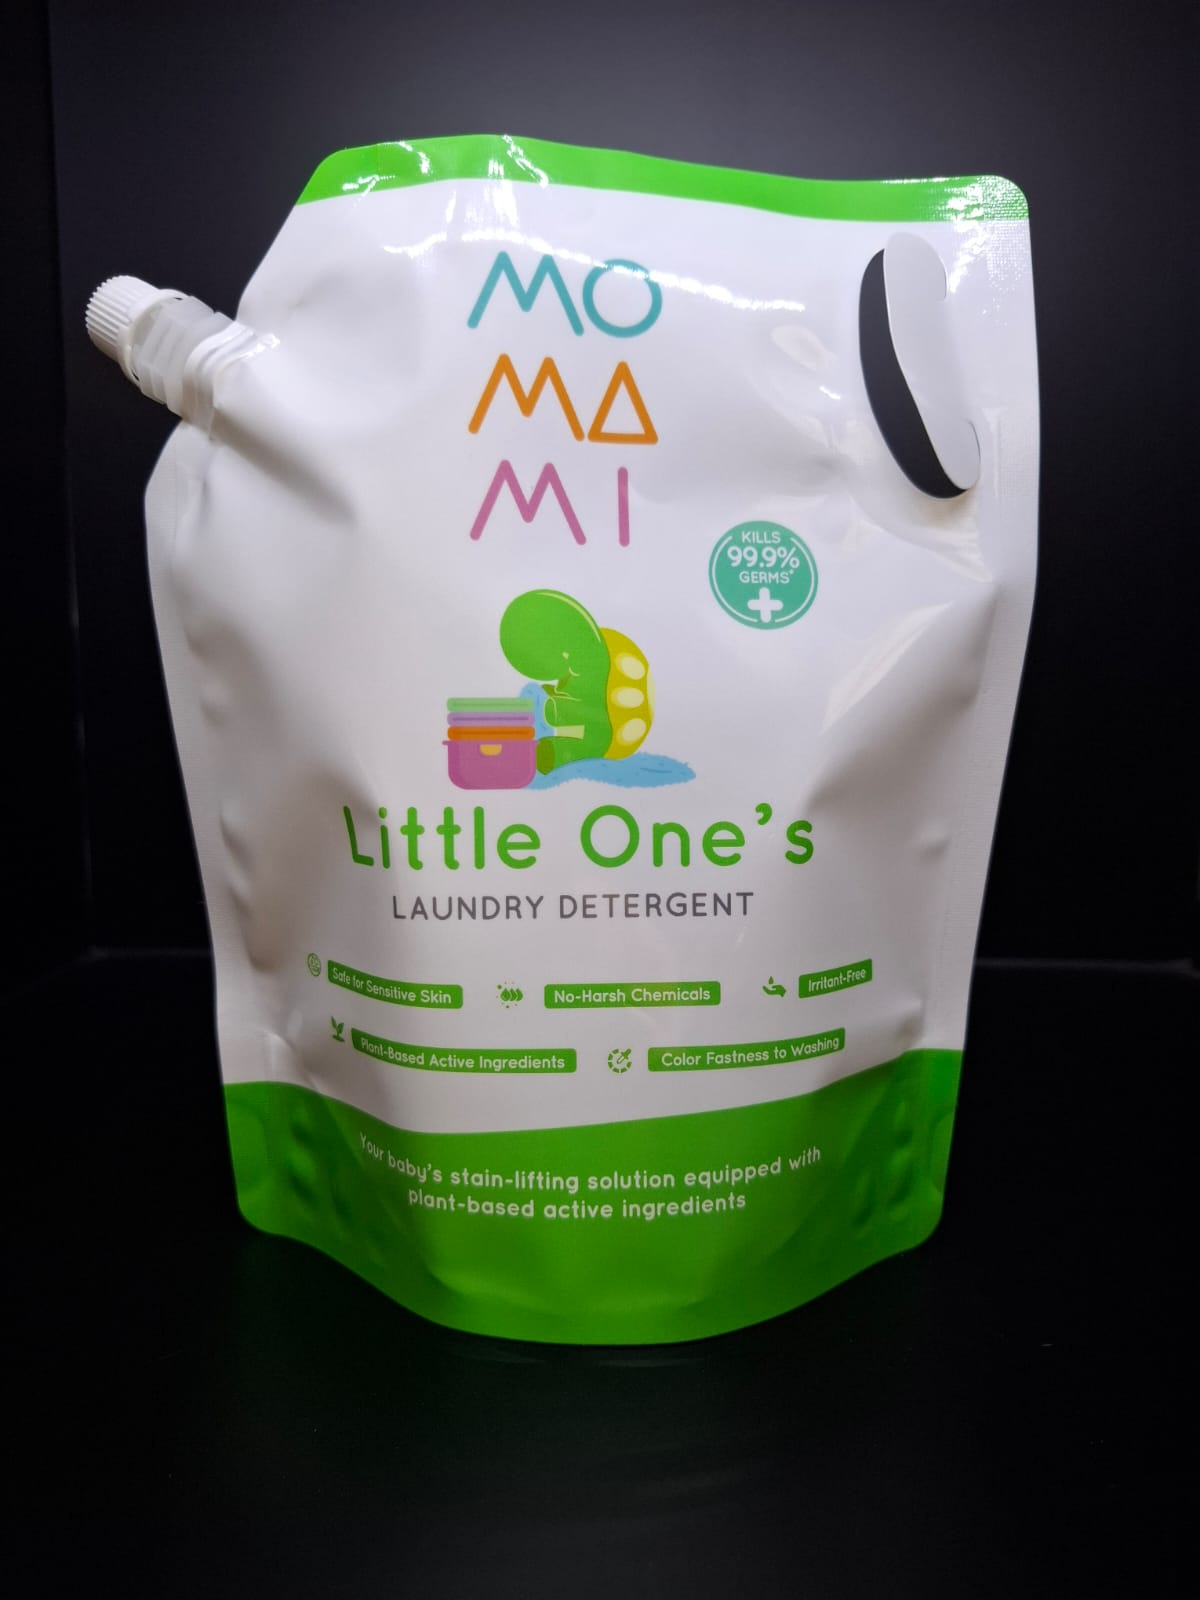
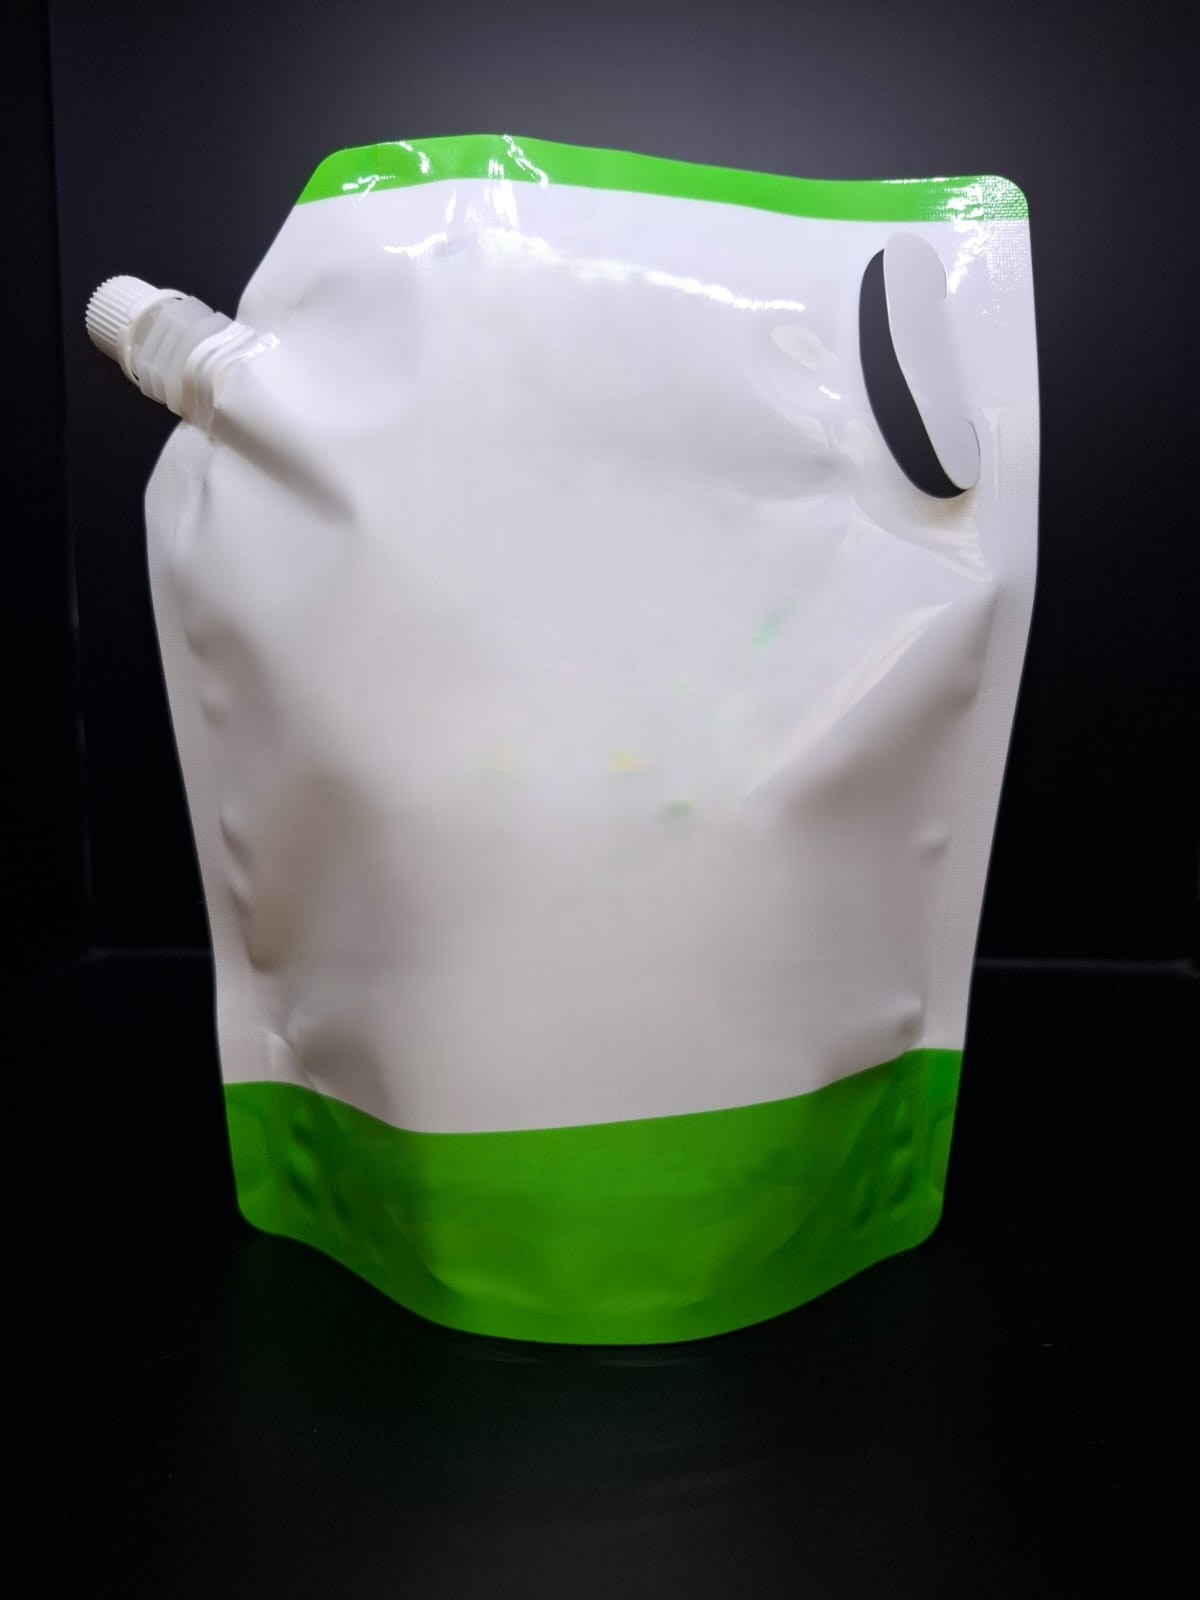
added pictures, changed whatsapp number positioning

diff --git a/data/products.ts b/data/products.ts
@@ -12,10 +12,10 @@ export const products: Product[] = [
     id: "1",
     name: "Spout Side Bag Small",
     description: "Small spout bag perfect for liquids and gels with spout nozzle at the side.",
-    images: [`${import.meta.env.BASE_URL}spout_side_small.jpeg`],
+    images: [`${import.meta.env.BASE_URL}spout_side_small.jpeg`, `${import.meta.env.BASE_URL}S-front.jpeg`, `${import.meta.env.BASE_URL}S-back.jpeg`,  `${import.meta.env.BASE_URL}S-front_1.jpeg`,  `${import.meta.env.BASE_URL}S-back_1.jpeg`, `${import.meta.env.BASE_URL}S-front_2.jpeg`, `${import.meta.env.BASE_URL}S-back_2.jpeg`],
     specs: [
       { label: "Length", value: "100 mm" },
-      { label: "Width", value: "120 mm" },
+      { label: "Width", value: "160 mm" },
       { label: "Thickness", value: "130 mic" },
       { label: "Nozzle Diameter", value: "10mm" }
     ]
@@ -37,19 +37,19 @@ export const products: Product[] = [
     name: "Spout Side Bag Medium",
     category: "Spout Bag",
     description: "Medium spout bag perfect for liquids and gels with spout nozzle at the side.",
-    images: [``],
+    images: [`${import.meta.env.BASE_URL}L-front.jpeg`, `${import.meta.env.BASE_URL}L-back.jpeg`, `${import.meta.env.BASE_URL}L-front_1.jpeg`, `${import.meta.env.BASE_URL}L-back_1.jpeg`],
     specs: [
-      { label: "Length", value: "200 mm" },
+      { label: "Length", value: "140 mm" },
       { label: "Width", value: "230 mm" },
       { label: "Thickness", value: "130 mic" },
-      { label: "Nozzle Diameter", value: "26mm" }
+      { label: "Nozzle Diameter", value: "10mm" }
     ]
   },
   {
     id: "4",
     name: "Spout Side Bag Medium with Handle",
     description: "Medium spout bag perfect for liquids and gels with spout nozzle at the side and a handle.",
-    images: [],
+    images: [ `${import.meta.env.BASE_URL}spout_side_medium_handle.jpeg`],
     specs: [
       { label: "Length", value: "200 mm" },
       { label: "Width", value: "250 mm" },

diff --git a/components/ProductCard.tsx b/components/ProductCard.tsx
@@ -48,32 +48,7 @@ export function ProductCard({ id, name, description, images, rating = 5 }: Produ
         </div>
         
         {/* Content Section */}
-        <div className="p-6">
-          <div className="flex items-center gap-1 mb-2">
-            {Array.from({ length: 5 }).map((_, i) => (
-              <svg
-                key={i}
-                xmlns="http://www.w3.org/2000/svg"
-                width="24"
-                height="24"
-                viewBox="0 0 24 24"
-                fill="none"
-                stroke="currentColor"
-                strokeWidth="2"
-                strokeLinecap="round"
-                strokeLinejoin="round"
-                className={`h-4 w-4 ${
-                  i < rating 
-                    ? "fill-yellow-400 text-yellow-400" 
-                    : "fill-slate-100 text-slate-300"
-                }`}
-              >
-                <polygon points="12 2 15.09 8.26 22 9.27 17 14.14 18.18 21.02 12 17.77 5.82 21.02 7 14.14 2 9.27 8.91 8.26 12 2"/>
-              </svg>
-            ))}
-            {/* <span className="text-slate-600 ml-2 text-sm">({rating}.0)</span> */}
-          </div>
-          
+        <div className="p-6">          
           <h3 className="font-semibold leading-none tracking-tight mb-2 text-lg">{name}</h3>
           <p className="text-sm text-slate-600 mb-4 line-clamp-2">{description}</p>
         </div>

diff --git a/components/Hero.tsx b/components/Hero.tsx
@@ -16,9 +16,8 @@ export function Hero() {
     const carouselRef = useRef<HTMLDivElement>(null);
 
     const images: CarouselImage[] = [
-    { id: 1, url: `${import.meta.env.BASE_URL}spout_1.jpg`, alt: 'spout bag medium' },
-    { id: 3, url: `${import.meta.env.BASE_URL}spout_4.jpg`, alt: 'spout bag medium' },
-    { id: 4, url: `${import.meta.env.BASE_URL}spout_5.jpg`, alt: 'spout bag with handle' },
+    { id: 1, url: `${import.meta.env.BASE_URL}Homepage-1.jpeg`, alt: 'spout bag medium' },
+    { id: 2, url: `${import.meta.env.BASE_URL}Homepage-2.jpeg`, alt: 'spout bag medium' },
     ];
 
     // Parallax effect on mouse move

diff --git a/components/WhatsappButton.tsx b/components/WhatsappButton.tsx
@@ -11,8 +11,8 @@ export function WhatsAppButton() {
   const containerRef = useRef<HTMLDivElement>(null);
 
   const whatsappNumbers: WhatsAppContact[] = [
-    { name: 'Sales', number: '60123456789' },
-    { name: 'Support', number: '60198765432' }
+    { name: 'Sales', number: '628161677898' },
+    { name: 'Support', number: '628161152204' }
   ];
 
   useEffect(() => {
